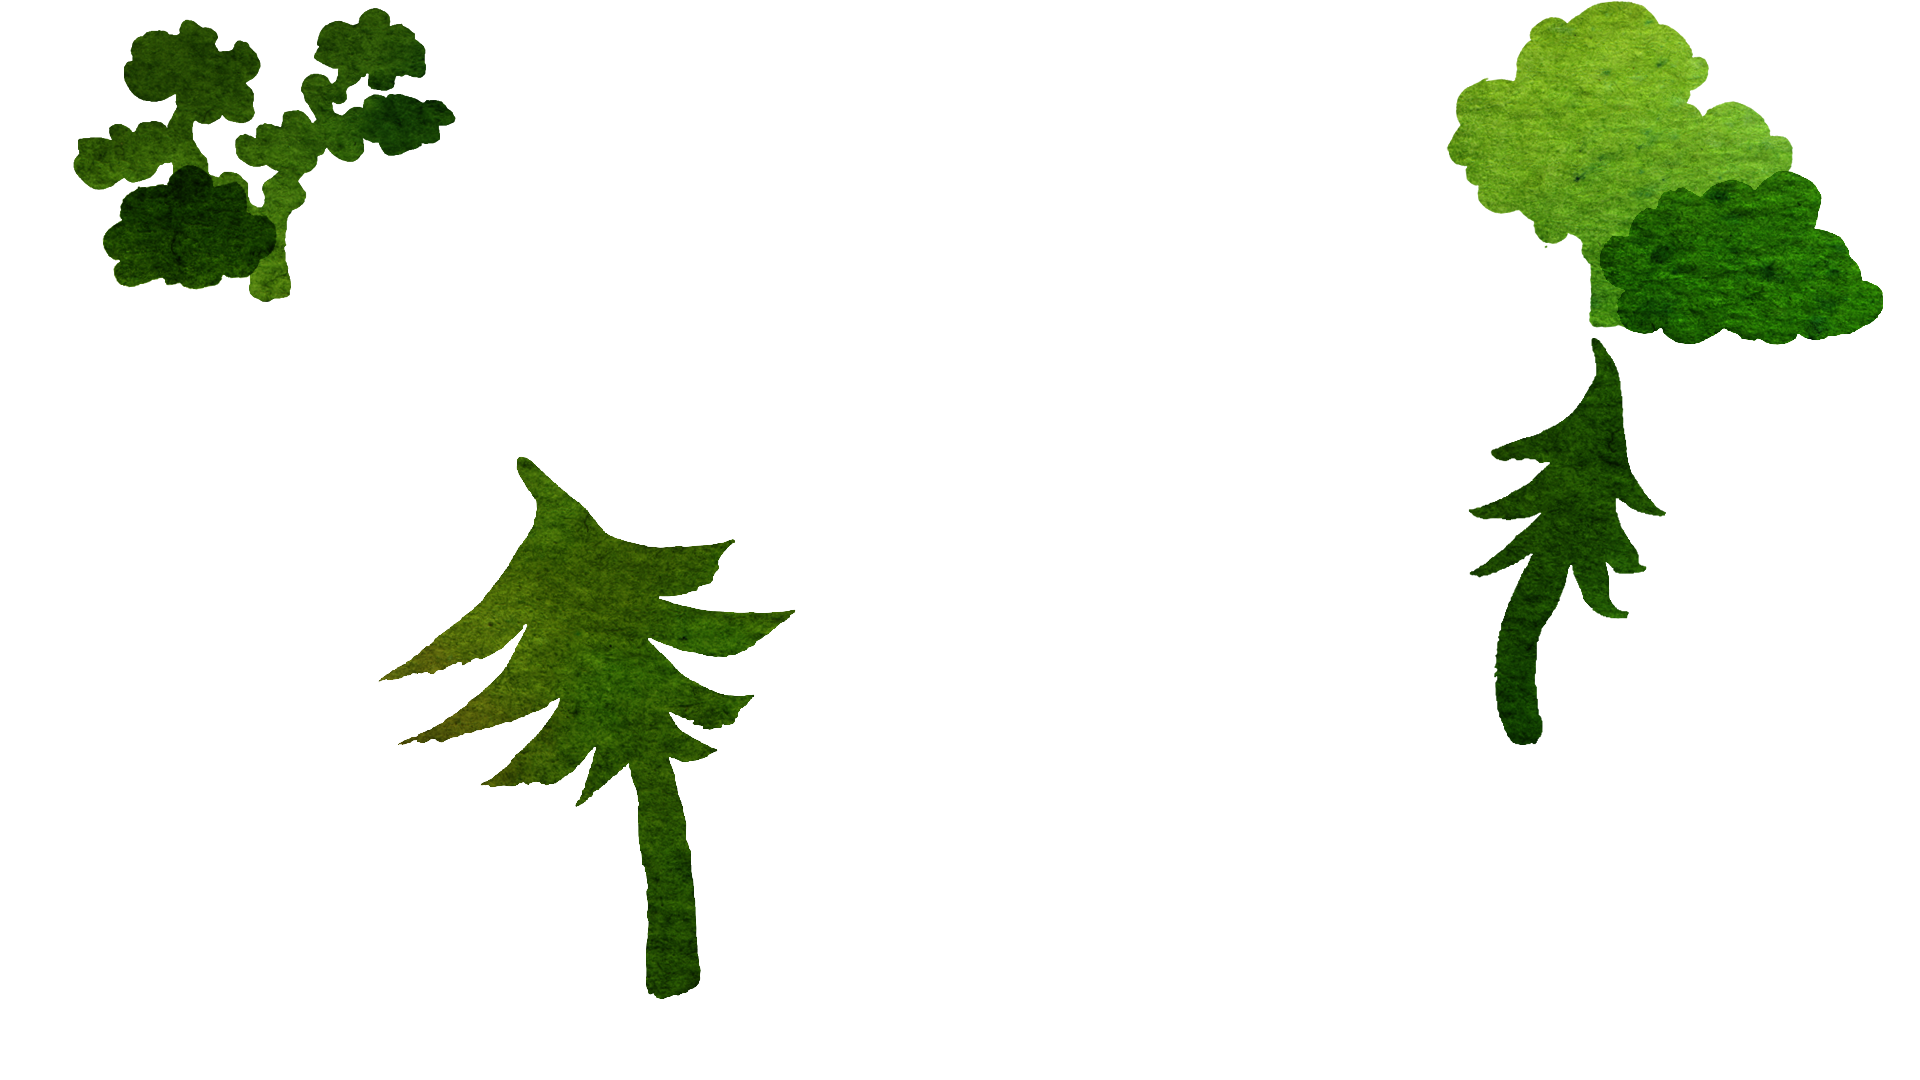
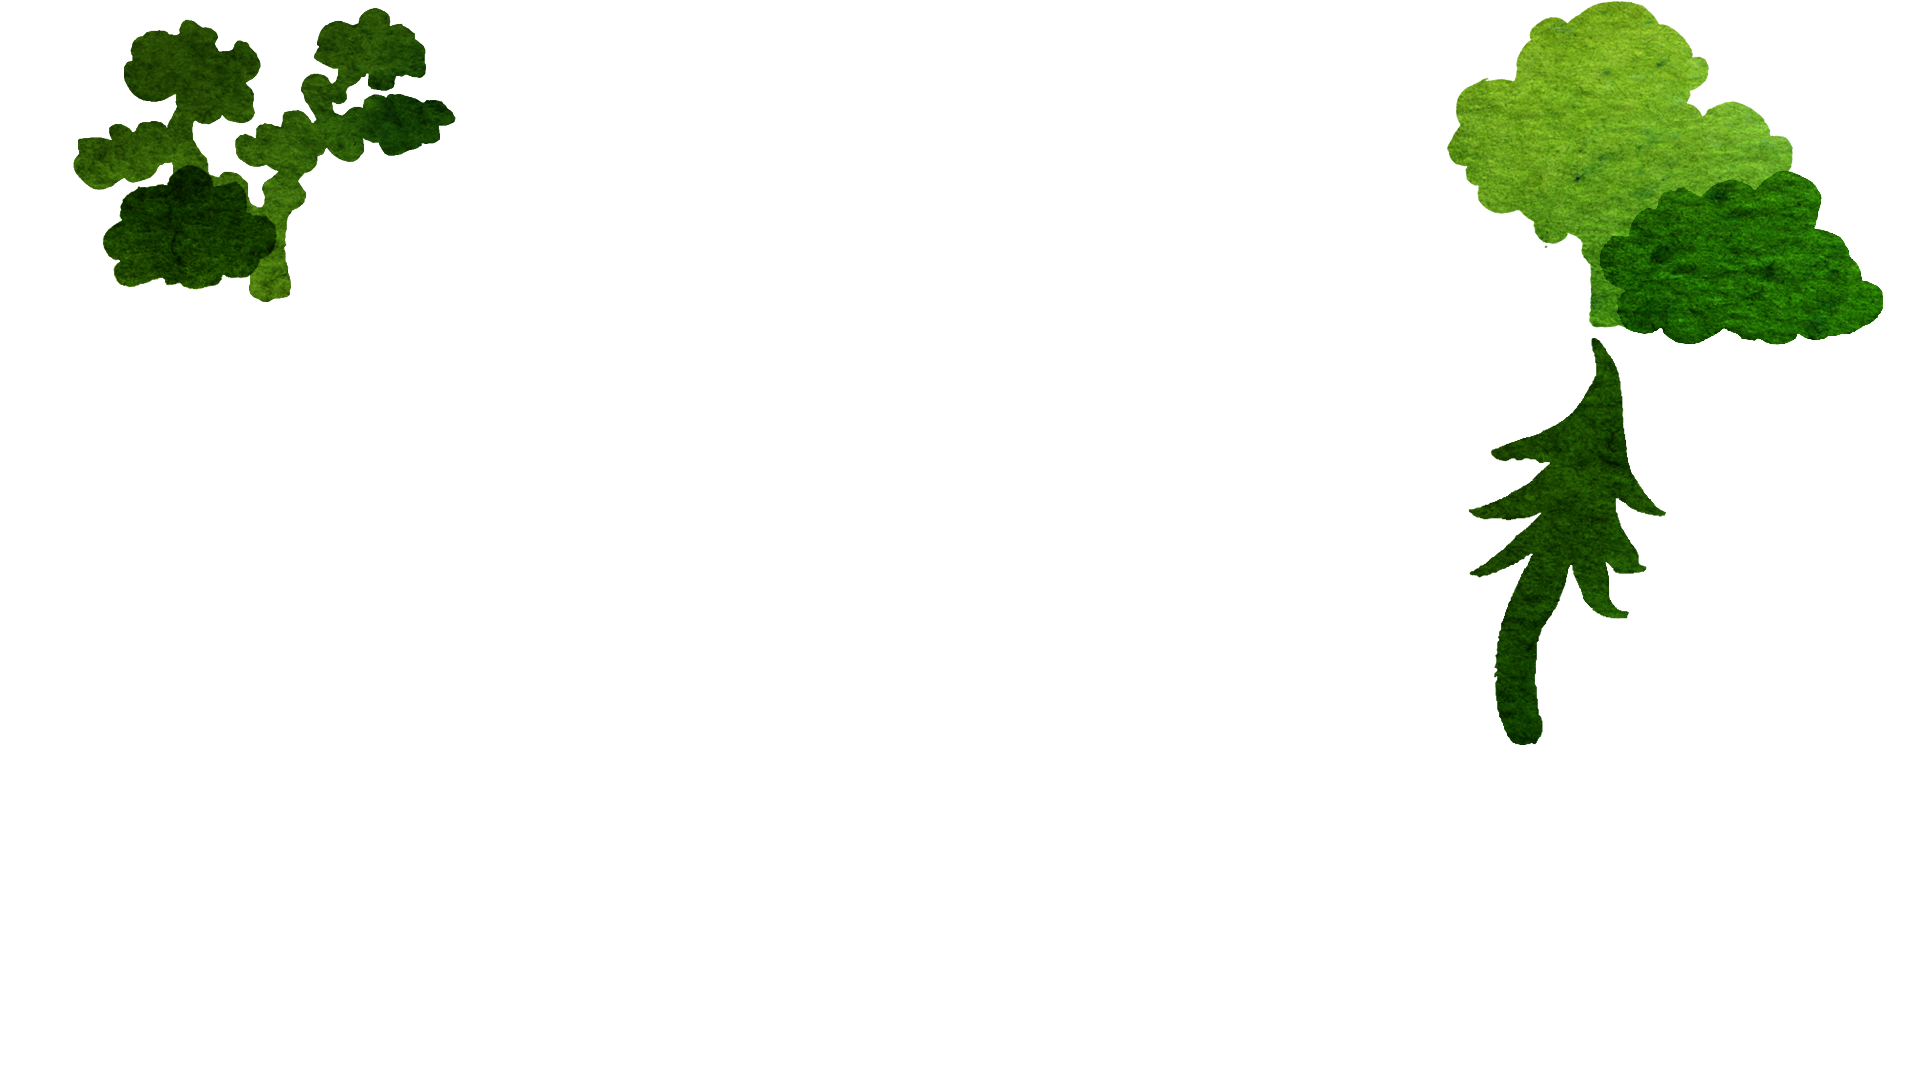
rotating tree

Changed region(s): [[0.1875, 0.4278, 0.4062, 0.9167]]

diff --git a/src/gamestates/game.c b/src/gamestates/game.c
@@ -80,7 +80,7 @@ struct GamestateResources {
 
 	ALLEGRO_AUDIO_STREAM *day1, *day2, *night1, *night2, *rewind, *music;
 
-	ALLEGRO_BITMAP *clock1, *clock2, *clockball1, *clockball2, *hand1, *hand2, *ball, *trees, *scores, *scorebmp;
+	ALLEGRO_BITMAP *clock1, *clock2, *clockball1, *clockball2, *hand1, *hand2, *ball, *trees, *tree, *scores, *scorebmp;
 
 	struct AnimalRes dzik, ostronos, owca, leaf;
 
@@ -129,7 +129,7 @@ struct GamestateResources {
 #define AT_NIGHT_SUPPRESSION 0.5
 #define SCREENSHAKE 20
 
-int Gamestate_ProgressCount = 39; // number of loading steps as reported by Gamestate_Load
+int Gamestate_ProgressCount = 40; // number of loading steps as reported by Gamestate_Load
 
 static bool IsBetween(float val, float lim1, float lim2) {
 	return ((val >= lim1) && (val <= lim2)) || ((val >= lim2) && (val <= lim1));
@@ -772,6 +772,7 @@ static void DrawScene(struct Game* game, struct GamestateResources* data, double
 	}
 
 	al_draw_bitmap(data->trees, 0, 0, 0);
+	al_draw_rotated_bitmap(data->tree, 295, 512, 378 + 295, 456 + 512, (sin(time * 800) * 2 - 1) / 100.0, 0);
 
 	/*
 	for (unsigned int i = 0; i < (sizeof(data->paths) / sizeof(struct Path*)); i++) {
@@ -1073,6 +1074,8 @@ void* Gamestate_Load(struct Game* game, void (*progress)(struct Game*)) {
 	data->frame = al_load_bitmap(GetDataFilePath(game, "frame.png"));
 	progress(game);
 	data->trees = al_load_bitmap(GetDataFilePath(game, "trees.png"));
+	progress(game);
+	data->tree = al_load_bitmap(GetDataFilePath(game, "tree.png"));
 	progress(game);
 	data->target = CreateNotPreservedBitmap(1920 / 2, 1080 / 2);
 	data->scene = CreateNotPreservedBitmap(1920, 1080);
